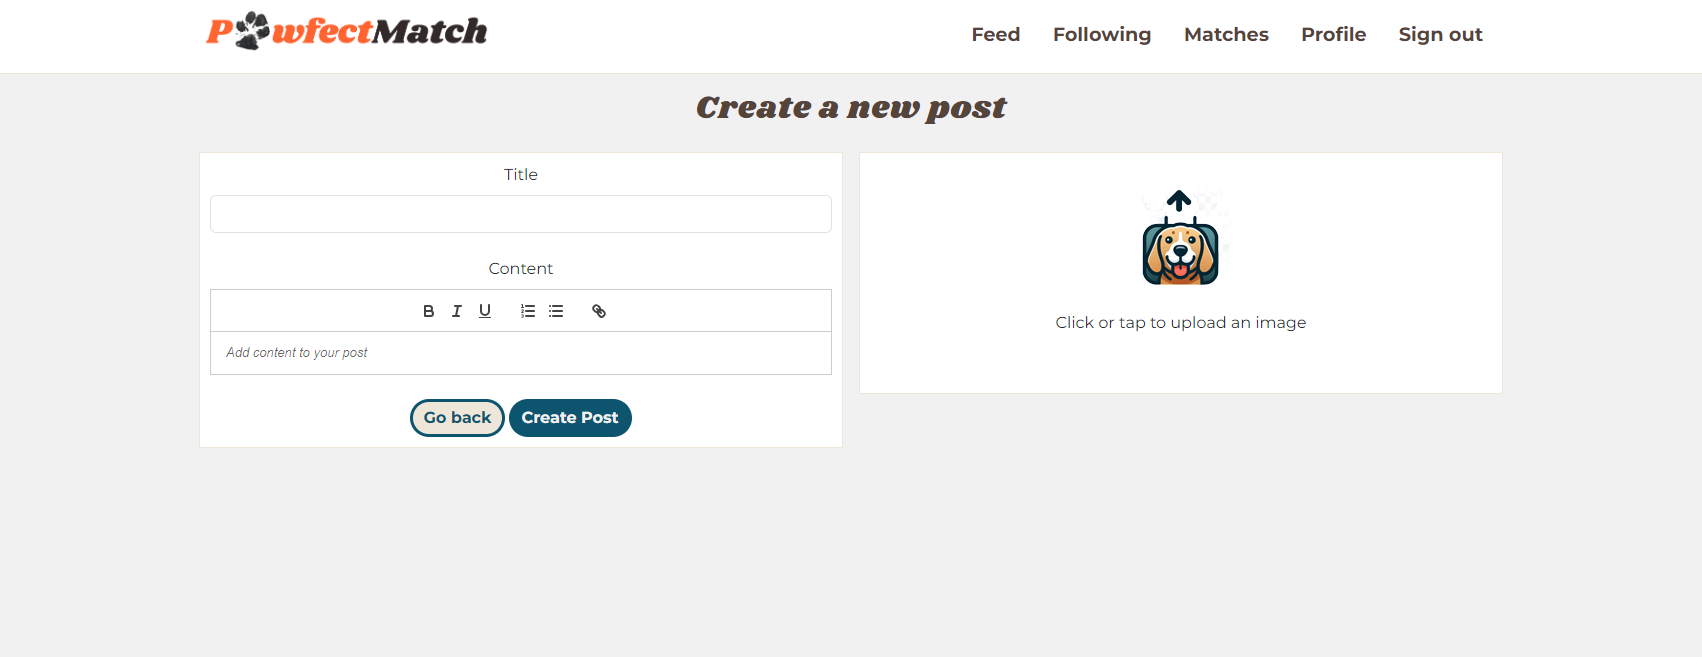
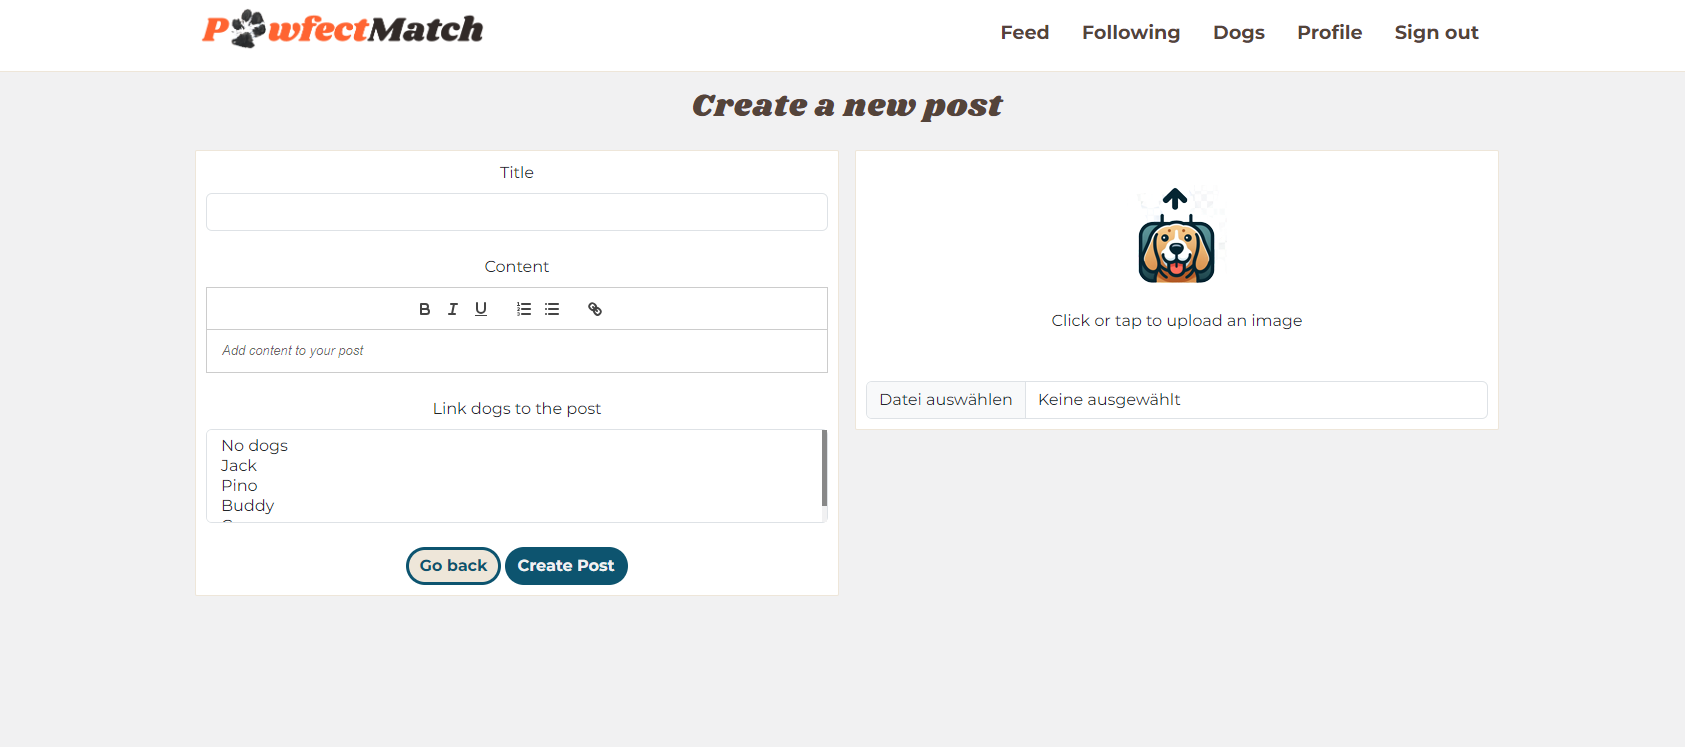
doc: adapt screenshots and description

diff --git a/README.md b/README.md
@@ -294,7 +294,9 @@ The *Following* page is shown only for logged-in users. It renders posts like th
 
 ## **Post CRUD**
 
-Full CRUD functionality is implemented for posts. Logged-in shelter users can create posts and add a title, content and image to it. For the content, I installed a WYSIWYG editor to allow more styling of the post. I installed the package *dompurify* to render the content safely and avoid security risks.
+Full CRUD functionality is implemented for posts. Logged-in shelter users can create posts and add a title, content and image to it. Dogs that are created by the logged-in shelter can also be linked to a post. 
+
+For the content, I installed a WYSIWYG editor to allow more styling of the post. I installed the package *dompurify* to render the content safely and avoid security risks.
 
 ![Create post](docs/screenshots/post_create_desktop.png)\
 *Create a post on a desktop*
@@ -340,7 +342,7 @@ Banned words can be defined in the admin panel. Comments are checked before post
 
 ### **Edit profile**
 
-Each user can change their name, description, country and profile image. Only shelters are allowed to add an exact address and phone number.
+Each user can change their name, description, country and profile image. Only shelters are allowed to add an exact address, phone number and mail address.
 
 ![Profile edit shelter](docs/screenshots/profile_edit_shelter_desktop.png)\
 *Profile edit shelter on a desktop*
@@ -355,18 +357,23 @@ Only shelters can create dogs. They have a link in the navbar that takes them to
 ![Dogs page](docs/screenshots/dogs_page.png)\
 *Dogs page on a desktop*
 
-To create a dog, the name, breed, birthday, size and gender of the dog have to be added. Additionally, a description can be added using the WYSIWYG editor and characteristics can be chosen for the dog. A main image and additional images can be uploaded for dogs.
+To create a dog, the name, breed, birthday, size and gender of the dog have to be added. Additionally, a description can be added using the WYSIWYG editor and characteristics can be chosen for the dog. A main image, a video and additional images can be uploaded for dogs.
 
 ![Create a dog](docs/screenshots/create_dog.png)\
 *Create a do on a desktop*
 
-The detail page of a dog includes the main image, name and description of the dog. Additional information and characteristics of the dog are rendered using icons and colorful tags. If additional images have been uploaded, they are shown in a slideshow. At the bottom of the dog detail page, the contact information of the shelter and posts where this dog is linked are shown.
+The detail page of a dog includes the main image, name and description of the dog. Additional information and characteristics of the dog are rendered using icons and colorful tags. If additional images have been uploaded, they are shown in a slideshow. If a video was uploaded, it is shown under the slideshow.
+
+At the bottom of the dog detail page, the contact information of the shelter and posts where this dog is linked are shown.
 
 ![Dog detail phone](docs/screenshots/dog_detail_phone.png)\
 *Dog detail page on a phone*
 
 ![Dog detail page](docs/screenshots/dog_detail.png)\
 *Dog detail page on a desktop*
+
+![Dog detail video](docs/screenshots/dog_video_phone.png)\
+*Dog detail page with a video on a phone*
 
 ### **Matches**
 
